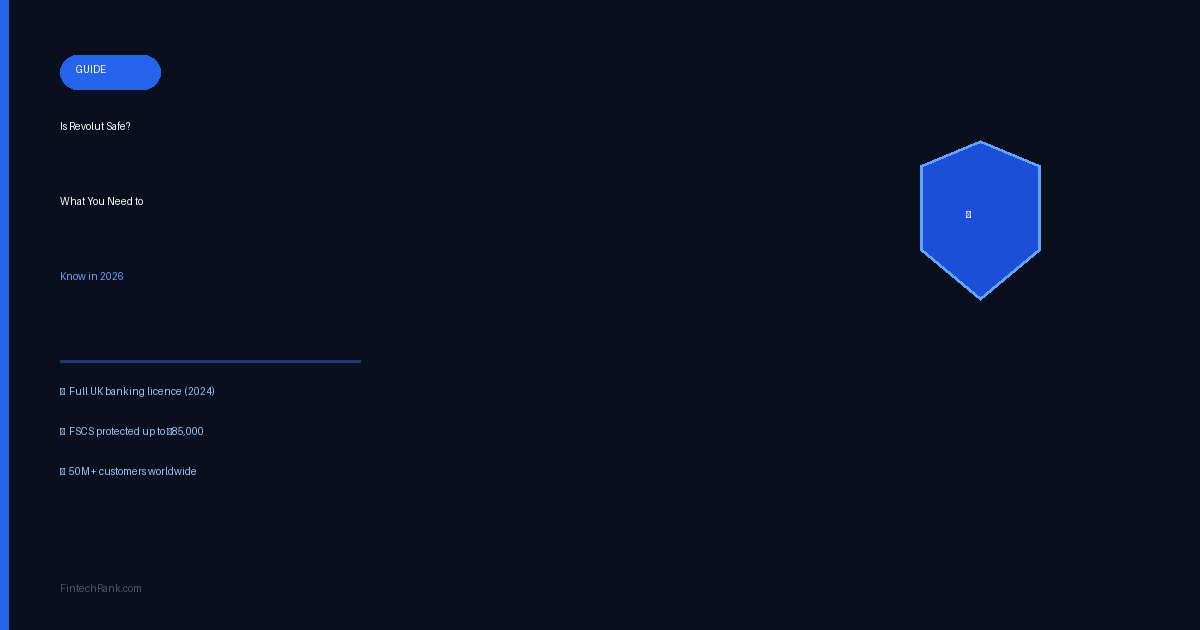
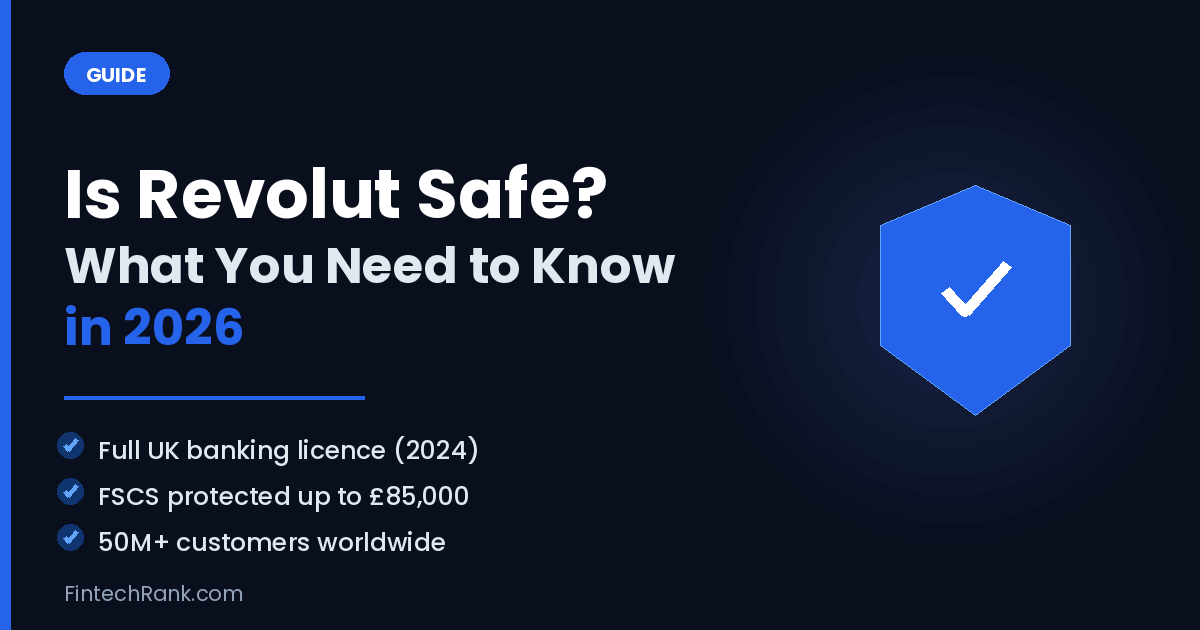
feat: add internal links across all articles, rebuild Revolut header image
16 of 17 articles had no internal links at all despite mentioning
companies with review pages. Added 72 verified links: first-mention
company links plus related-post cross-links.

Every /review/ target was checked against the live site - all 98 review
pages resolve to real companies in the database, so no link 404s.

Rebuilt the Revolut article header image, which had fallen back to a
bitmap font with missing-glyph boxes for the checkmarks and pound sign.

Claude-Session: https://claude.ai/code/session_01TsZgBPnu358ej8TwvhT85E

diff --git a/content/blog/best-business-bank-account-uk-2026.md b/content/blog/best-business-bank-account-uk-2026.md
@@ -16,11 +16,11 @@ This comparison covers the leading UK business bank accounts in 2026, from neoba
 
 **Choose Starling Business** if you want the best free UK business current account full stop. No monthly fees, excellent accounting integrations, 24/7 support, and a track record of being the most recommended business bank by UK accountants.
 
-**Choose Monzo Business** if you are already a Monzo personal customer and want seamless integration between your personal and business finances in one app. Good features, slightly behind Starling on integrations.
+**Choose [Monzo](/review/monzo) Business** if you are already a Monzo personal customer and want seamless integration between your personal and business finances in one app. Good features, slightly behind Starling on integrations.
 
 **Choose Tide** if you are a sole trader or very small business wanting a fast digital application and a solid range of invoicing and expense tools built into the account.
 
-**Choose Revolut Business** if you are a fast-growing company with international operations needing multi-currency accounts, mass payments, and sophisticated spend management tools.
+**Choose [Revolut](/review/revolut) Business** if you are a fast-growing company with international operations needing multi-currency accounts, mass payments, and sophisticated spend management tools.
 
 **Choose a traditional bank (Barclays, HSBC, NatWest)** if you need in-branch cash handling, relationship manager access, or are in an industry where neobanks are reluctant to onboard (construction, certain regulated sectors).
 
@@ -70,7 +70,7 @@ All five options issue business debit or prepaid cards. The meaningful differenc
 
 **Revolut Business** is the clear winner here. You can hold balances in 30+ currencies, pay international invoices at the interbank rate, and receive foreign currency payments to local account details in multiple countries. For a UK business with regular EUR, USD, or other currency transactions, Revolut Business can save thousands per year compared to traditional banks.
 
-**Starling** offers international transfers via the Starling Payments API but does not offer multi-currency accounts. For occasional international payments, this is fine. For regular multi-currency operations, look at Revolut Business or Wise Business.
+**Starling** offers international transfers via the Starling Payments API but does not offer multi-currency accounts. For occasional international payments, this is fine. For regular multi-currency operations, look at Revolut Business or [Wise](/review/wise) Business.
 
 **Tide** has limited international payment capability - primarily suited to UK-only businesses.
 
@@ -111,3 +111,5 @@ A meaningful practical consideration for new businesses.
 The dominance of Starling and Monzo in the best-buy lists for UK business banking is not marketing - it reflects genuinely better products. They are free, they integrate well with accounting software, and they have customer support that is better than most high street banks.
 
 The main reason to choose a traditional bank remains cash handling and relationship access. For the overwhelming majority of UK businesses operating digitally, a neobank business account is the right choice in 2026.
+
+For more on this, see our [best business banking for startups](/blog/best-business-banking-startups-2026).

diff --git a/content/blog/how-to-choose-payment-gateway-2026.md b/content/blog/how-to-choose-payment-gateway-2026.md
@@ -19,7 +19,7 @@ When a customer enters their card details at checkout, the gateway:
 4. The bank returns an approve or decline response in real time
 5. If approved, the gateway holds the funds and settles them to your account within 1-2 business days
 
-Modern providers like Stripe and Adyen bundle the gateway, payment processor, and acquiring bank into a single product, which simplifies setup significantly compared to older architectures where these were purchased separately.
+Modern providers like [Stripe](/review/stripe) and [Adyen](/review/adyen) bundle the gateway, payment processor, and acquiring bank into a single product, which simplifies setup significantly compared to older architectures where these were purchased separately.
 
 ## The five questions that determine the right gateway
 
@@ -28,7 +28,7 @@ Local acquiring - where the transaction is processed by a bank in the same count
 
 **2. What is your monthly processing volume?**
 - Under £50,000/month: Blended pricing is fine. Simplicity outweighs the slight cost premium.
-- £50,000-500,000/month: Worth getting quotes from Checkout.com.
+- £50,000-500,000/month: Worth getting quotes from [Checkout.com](/review/checkout-com).
 - Over £500,000/month: Negotiate. Every provider at this volume will offer custom interchange-plus pricing.
 
 **3. Do you have subscriptions or recurring billing?**
@@ -52,7 +52,7 @@ Weaknesses: requires more technical investment to integrate, minimum volume requ
 
 **Checkout.com** sits between Stripe and Adyen. It offers enterprise-grade features with a lower barrier to entry than Adyen and more flexibility on commercial terms. A strong choice for mid-market businesses that have outgrown Stripe's standard offering.
 
-**PayPal** is a consumer wallet that also functions as a payment gateway. Adding a PayPal button alongside your primary gateway can increase checkout conversion by 5-15% for consumer e-commerce. PayPal as a primary gateway for developer-built products is not recommended - fees are higher, developer experience is behind Stripe, and the product is more limited.
+**[PayPal](/review/paypal)** is a consumer wallet that also functions as a payment gateway. Adding a PayPal button alongside your primary gateway can increase checkout conversion by 5-15% for consumer e-commerce. PayPal as a primary gateway for developer-built products is not recommended - fees are higher, developer experience is behind Stripe, and the product is more limited.
 
 ## Understanding pricing
 
@@ -81,3 +81,5 @@ The savings from interchange-plus begin to meaningfully offset the reconciliatio
 **For consumer e-commerce regardless of gateway:** Add PayPal as a secondary checkout option. The conversion lift typically pays for the integration cost within weeks.
 
 The gateway decision is not permanent, but migrating is painful enough that choosing thoughtfully at the start saves significant operational cost later.
+
+For more on this, see our [Stripe vs PayPal](/blog/stripe-vs-paypal-2026) and [Stripe vs Adyen](/blog/stripe-vs-adyen-2026).

diff --git a/content/blog/best-crypto-wallet-2026.md b/content/blog/best-crypto-wallet-2026.md
@@ -15,7 +15,7 @@ This guide cuts through the noise. We explain the three ways to store crypto, ra
 
 Before picking a wallet, you need to understand what you are actually choosing between.
 
-**Exchange custody** means a company holds your crypto for you. You log into Coinbase or Binance, you see a balance, but you do not control the underlying keys. If the exchange is hacked (Mt. Gox, FTX), freezes withdrawals, or goes bankrupt, your funds are at risk. The upside: zero setup, easy to buy and sell, covered by some consumer protections depending on jurisdiction.
+**Exchange custody** means a company holds your crypto for you. You log into [Coinbase](/review/coinbase) or [Binance](/review/binance), you see a balance, but you do not control the underlying keys. If the exchange is hacked (Mt. Gox, FTX), freezes withdrawals, or goes bankrupt, your funds are at risk. The upside: zero setup, easy to buy and sell, covered by some consumer protections depending on jurisdiction.
 
 **Software wallets** (also called hot wallets) are apps on your phone or browser where *you* hold the private keys. MetaMask, Phantom, Trust Wallet - they give you real ownership. The risk is that your phone or computer is always connected to the internet, which is an attack surface. A malicious app, a phishing site, a compromised browser extension - any of these can drain your wallet.
 
@@ -29,7 +29,7 @@ The right answer for most people is a combination: keep trading funds on an exch
 
 ### Ledger
 
-Ledger is the most widely used hardware wallet brand, with over 6 million devices sold. Their lineup in 2026:
+[Ledger](/review/ledger) is the most widely used hardware wallet brand, with over 6 million devices sold. Their lineup in 2026:
 
 **Nano S Plus - $79**
 The entry-level pick. Supports 5,500+ coins and tokens, has a larger screen than the original Nano S, and connects via USB-C. No Bluetooth. If you want cold storage without spending much, this is the one. The only downside is you need a computer nearby to use it.
@@ -126,3 +126,5 @@ Most crypto losses that are not exchange failures are seed phrase failures. The 
 ---
 
 The crypto market will keep cycling. Exchanges will keep failing. The wallets you use to secure your assets matter more than any price prediction. Start with a hardware wallet, keep your seed phrase safe, and stop trusting companies with keys that should be yours.
+
+For more on this, see our [best crypto exchanges](/blog/best-crypto-exchanges-2026) and [Coinbase vs Kraken](/blog/coinbase-vs-kraken-2026).

diff --git a/content/blog/best-investing-apps-uk-2026.md b/content/blog/best-investing-apps-uk-2026.md
@@ -14,11 +14,11 @@ This comparison covers the five most-used investing apps in the UK, from pure-pl
 
 ## Quick verdict
 
-**Choose Freetrade** if you want a regulated UK stocks and shares ISA with commission-free trading and a clean, beginner-friendly interface. Best for long-term ISA investors buying UK and US stocks.
+**Choose [Freetrade](/review/freetrade)** if you want a regulated UK stocks and shares ISA with commission-free trading and a clean, beginner-friendly interface. Best for long-term ISA investors buying UK and US stocks.
 
-**Choose Trading 212** if you want the widest selection of stocks, fractional shares from £1, and the highest interest rate on uninvested cash. Best for active investors and those building diversified global portfolios.
+**Choose [Trading 212](/review/trading-212)** if you want the widest selection of stocks, fractional shares from £1, and the highest interest rate on uninvested cash. Best for active investors and those building diversified global portfolios.
 
-**Choose eToro** if you want to copy top-performing investors automatically or want social trading features alongside standard investing. Best for beginners who want guided exposure to markets.
+**Choose [eToro](/review/etoro)** if you want to copy top-performing investors automatically or want social trading features alongside standard investing. Best for beginners who want guided exposure to markets.
 
 **Choose Hargreaves Lansdown** if you want the most comprehensive platform, widest fund selection, and the strongest track record for reliability. Best for serious investors who value breadth and security over the lowest fees.
 
@@ -105,3 +105,5 @@ All five platforms are regulated by the Financial Conduct Authority (FCA) and co
 For most UK retail investors starting out in 2026, Trading 212 is the best starting point: free ISA, widest stock selection, highest cash interest, fractional shares. As your portfolio grows and your needs become more sophisticated - particularly if you want actively managed funds, investment trusts, or the highest level of platform reliability - Hargreaves Lansdown earns its higher fees.
 
 The worst outcome is not investing at all because the choice feels complicated. Any of these five platforms is dramatically better than leaving money in a current account.
+
+For more on this, see our [TradingView review](/blog/tradingview-review-2026).

diff --git a/content/blog/best-neobanks-uk-2026.md b/content/blog/best-neobanks-uk-2026.md
@@ -8,7 +8,7 @@ image: "/blog-neobanks-uk-2026.png"
 excerpt: "Four of the UK's most popular digital banks compared on features, fees, customer support, and everyday usability. Which one should be your main bank in 2026?"
 ---
 
-The UK has become the global capital of neobanking. Monzo, Revolut, Starling, and N26 between them serve over 30 million UK customers. All four are app-only, all four have no foreign transaction fees, and all four offer instant spending notifications. Beyond these basics, they are very different products built for very different users.
+The UK has become the global capital of neobanking. [Monzo](/review/monzo), [Revolut](/review/revolut), Starling, and [N26](/review/n26) between them serve over 30 million UK customers. All four are app-only, all four have no foreign transaction fees, and all four offer instant spending notifications. Beyond these basics, they are very different products built for very different users.
 
 This is the comparison most guides get wrong - they compare feature lists without acknowledging that the right answer depends entirely on what you actually need from a bank account.
 
@@ -99,6 +99,8 @@ The right answer depends on what you actually use a bank account for.
 
 **If you run a freelance or small business:** Starling. The free business account, accounting integrations, and Marketplace are the best in the UK for this use case.
 
-**If you already use Monzo or Starling:** Consider adding Wise as a second account for international transfers specifically. The combination covers everything.
+**If you already use Monzo or Starling:** Consider adding [Wise](/review/wise) as a second account for international transfers specifically. The combination covers everything.
 
 What none of these accounts gives you that traditional banks still provide: physical branches, cash handling, and relationship managers for complex financial needs. If you regularly deposit cash or need in-person banking, you will still need a high street bank account alongside your neobank.
+
+For more on this, see our [is Revolut safe](/blog/is-revolut-safe-2026) and [Revolut vs Wise vs Monzo](/blog/revolut-vs-wise-vs-monzo-2026).

diff --git a/content/blog/stripe-vs-adyen-2026.md b/content/blog/stripe-vs-adyen-2026.md
@@ -8,7 +8,7 @@ excerpt: "Two of the most powerful payment platforms in the world, compared hone
 image: "/blog-stripe-vs-adyen-2026.png"
 ---
 
-Stripe and Adyen are the two most serious payment infrastructure companies in the world. Between them, they process payments for the majority of the internet's most successful businesses. Choosing between them is one of the most consequential infrastructure decisions a scaling company makes - and most articles on this topic are either too superficial or written by people with an affiliate interest in the outcome.
+[Stripe](/review/stripe) and [Adyen](/review/adyen) are the two most serious payment infrastructure companies in the world. Between them, they process payments for the majority of the internet's most successful businesses. Choosing between them is one of the most consequential infrastructure decisions a scaling company makes - and most articles on this topic are either too superficial or written by people with an affiliate interest in the outcome.
 
 This is the honest comparison.
 
@@ -94,3 +94,5 @@ Stripe is the better starting point for the vast majority of businesses. The dev
 Adyen is the right choice for enterprises that have outgrown Stripe's standard offering - where authorisation rates in specific markets, pricing optimisation at scale, and omnichannel capability justify the complexity and the dedicated resources required to operate it effectively.
 
 Most of the world's best internet companies have used Stripe early and some have added or migrated to Adyen later. Shopify, Uber, and Netflix have all used both at different stages. The choice is not permanent.
+
+For more on this, see our [Stripe vs PayPal](/blog/stripe-vs-paypal-2026) and [how to choose a payment gateway](/blog/how-to-choose-payment-gateway-2026).

diff --git a/content/blog/coinbase-vs-kraken-2026.md b/content/blog/coinbase-vs-kraken-2026.md
@@ -8,7 +8,7 @@ image: "/blog-coinbase-vs-kraken-2026.png"
 excerpt: "The two most trusted regulated crypto exchanges compared on fees, coin selection, security, and which type of user each is actually built for."
 ---
 
-If you are based in the US or UK and want to buy, sell, or hold cryptocurrency with regulatory protection, your realistic options narrow quickly. Binance is restricted. Bybit and OKX do not serve US or UK customers. That leaves Coinbase and Kraken as the two primary choices for regulated crypto trading in the English-speaking world.
+If you are based in the US or UK and want to buy, sell, or hold cryptocurrency with regulatory protection, your realistic options narrow quickly. [Binance](/review/binance) is restricted. Bybit and OKX do not serve US or UK customers. That leaves [Coinbase](/review/coinbase) and [Kraken](/review/kraken) as the two primary choices for regulated crypto trading in the English-speaking world.
 
 They are more different than they appear. This comparison tells you which one is actually right for you.
 
@@ -94,3 +94,5 @@ Both platforms offer strong security tooling.
 **Someone who wants the maximum regulatory protection possible:** Coinbase, on the basis of being the only publicly listed major exchange. Its disclosure requirements provide a level of transparency no other crypto company offers.
 
 The most common mistake new crypto buyers make is using Coinbase's standard app interface without realising how much extra they are paying. The second most common mistake is keeping large holdings on any exchange long-term. Use an exchange to buy; use a hardware wallet to hold.
+
+For more on this, see our [best crypto exchanges](/blog/best-crypto-exchanges-2026) and [best crypto wallets](/blog/best-crypto-wallet-2026).

diff --git a/content/blog/wise-vs-payoneer-2026.md b/content/blog/wise-vs-payoneer-2026.md
@@ -8,7 +8,7 @@ image: "/blog-wise-vs-payoneer-2026.png"
 excerpt: "Two of the most popular platforms for receiving international payments compared honestly. Wise wins on exchange rates. Payoneer wins on marketplace integrations. Here is how to choose."
 ---
 
-Wise and Payoneer are the two most commonly recommended platforms for freelancers, contractors, and remote workers who need to receive payments from clients in other countries. They solve similar problems but work very differently - and choosing the wrong one costs real money over time.
+[Wise](/review/wise) and [Payoneer](/review/payoneer) are the two most commonly recommended platforms for freelancers, contractors, and remote workers who need to receive payments from clients in other countries. They solve similar problems but work very differently - and choosing the wrong one costs real money over time.
 
 This is the honest comparison, based on what each platform actually charges rather than what their marketing pages say.
 
@@ -106,3 +106,5 @@ For most freelancers and remote workers receiving direct client payments, **Wise
 **Payoneer makes sense** if you rely on marketplace platforms that have free or low-cost Payoneer payouts, or if your clients are already on the Payoneer network. The platform integration advantage is real for this specific use case.
 
 The most common optimal setup: Wise as your primary account for direct client payments and currency holding, Payoneer as a secondary account specifically to receive marketplace payments before converting via Wise.
+
+For more on this, see our [Revolut vs Wise vs Monzo](/blog/revolut-vs-wise-vs-monzo-2026).

diff --git a/content/blog/stripe-vs-paypal-2026.md b/content/blog/stripe-vs-paypal-2026.md
@@ -8,7 +8,7 @@ excerpt: "The two biggest names in payments compared across fees, developer expe
 image: "/blog-stripe-vs-paypal.png"
 ---
 
-Stripe and PayPal together process more than $2 trillion in payments annually. They are the two most recognised names in online payments, and for most businesses evaluating a payment gateway for the first time, they are the first two options on the shortlist.
+[Stripe](/review/stripe) and [PayPal](/review/paypal) together process more than $2 trillion in payments annually. They are the two most recognised names in online payments, and for most businesses evaluating a payment gateway for the first time, they are the first two options on the shortlist.
 
 They are not interchangeable. They were built for different customers, optimised for different outcomes, and choosing the wrong one creates friction that compounds over time.
 
@@ -65,3 +65,5 @@ Stripe is the better product for most businesses building anything technical, su
 PayPal is a meaningful addition for consumer e-commerce businesses where buyer recognition and alternative payment methods drive conversion. It is rarely the right primary gateway in 2026, but as a secondary option it earns its place.
 
 For most businesses processing over £500,000 annually, running both in parallel will deliver better conversion and more flexible infrastructure than either alone.
+
+For more on this, see our [Stripe vs Adyen](/blog/stripe-vs-adyen-2026) and [how to choose a payment gateway](/blog/how-to-choose-payment-gateway-2026).

diff --git a/content/blog/best-business-banking-startups-2026.md b/content/blog/best-business-banking-startups-2026.md
@@ -7,7 +7,7 @@ categoryColor: "#4ade80"
 excerpt: "Three of the most popular neobanks for startups compared on features, fees, credit limits, and which stage of company each is actually built for."
 ---
 
-Brex, Ramp, and Mercury have collectively become the default banking infrastructure for venture-backed startups. They are not the same product. They were built to solve different problems at different company stages, and choosing the wrong one early creates friction that takes engineering time and operational disruption to undo.
+[Brex](/review/brex), [Ramp](/review/ramp), and [Mercury](/review/mercury) have collectively become the default banking infrastructure for venture-backed startups. They are not the same product. They were built to solve different problems at different company stages, and choosing the wrong one early creates friction that takes engineering time and operational disruption to undo.
 
 ## Quick verdict
 
@@ -70,3 +70,5 @@ All three integrate with QuickBooks, Xero, and NetSuite. The depth differs signi
 **Later stage with significant travel budget and need for high credit limits:** Brex earns its place. The rewards on travel and software, the high limits without personal guarantee, and dedicated support make it right at scale.
 
 There is no wrong answer at the early stage. The wrong answer is staying with a traditional bank business account when Mercury exists.
+
+For more on this, see our [best UK business bank accounts](/blog/best-business-bank-account-uk-2026).

diff --git a/content/blog/best-crypto-exchanges-2026.md b/content/blog/best-crypto-exchanges-2026.md
@@ -12,11 +12,11 @@ Choosing a crypto exchange in 2026 involves navigating a more complex landscape 
 
 ## Quick verdict
 
-**Coinbase** - Best for beginners in the US and UK who prioritise regulatory protection over fees.
+**[Coinbase](/review/coinbase)** - Best for beginners in the US and UK who prioritise regulatory protection over fees.
 
-**Kraken** - Best for US and European users who want strong regulation at lower fees than Coinbase.
+**[Kraken](/review/kraken)** - Best for US and European users who want strong regulation at lower fees than Coinbase.
 
-**Binance** - Best for experienced traders outside the US wanting maximum liquidity and coin selection.
+**[Binance](/review/binance)** - Best for experienced traders outside the US wanting maximum liquidity and coin selection.
 
 **Bybit** - Best for active derivatives traders outside the US wanting deep futures liquidity.
 
@@ -89,3 +89,5 @@ If you are based in the US, your practical options are Coinbase and Kraken. Ever
 **Active trader outside the US:** Binance or OKX for spot trading, Bybit for derivatives. Fee savings are material at any significant volume.
 
 **Long-term Bitcoin holder:** Coinbase or Kraken, then move holdings to a hardware wallet. Never hold large amounts on any exchange long-term regardless of its reputation.
+
+For more on this, see our [Coinbase vs Kraken](/blog/coinbase-vs-kraken-2026) and [best crypto wallets](/blog/best-crypto-wallet-2026).

diff --git a/content/blog/bnpl-guide-2026.md b/content/blog/bnpl-guide-2026.md
@@ -8,7 +8,7 @@ excerpt: "Buy now, pay later is now the default at most online retailers. Here i
 image: "/blog-bnpl-guide.png"
 ---
 
-Buy now, pay later processed over $300 billion in global transaction volume in 2025. It is now offered at checkout by most major retailers, embedded into credit cards, and available as a standalone app. Klarna, Afterpay, Affirm, and Sezzle handle the majority of this volume, but they operate very differently under the hood.
+Buy now, pay later processed over $300 billion in global transaction volume in 2025. It is now offered at checkout by most major retailers, embedded into credit cards, and available as a standalone app. [Klarna](/review/klarna), [Afterpay](/review/afterpay), [Affirm](/review/affirm), and [Sezzle](/review/sezzle) handle the majority of this volume, but they operate very differently under the hood.
 
 ## How BNPL actually works
 
@@ -72,3 +72,5 @@ For larger purchases needing genuine financing over months, **Affirm's** transpa
 **Sezzle** is a niche choice with a specific value: building credit history through BNPL use.
 
 Whatever you choose, treat BNPL as a budgeting tool for purchases you have already decided to make, not a mechanism for purchasing things outside your budget.
+
+For more on this, see our [Stripe vs PayPal](/blog/stripe-vs-paypal-2026).
